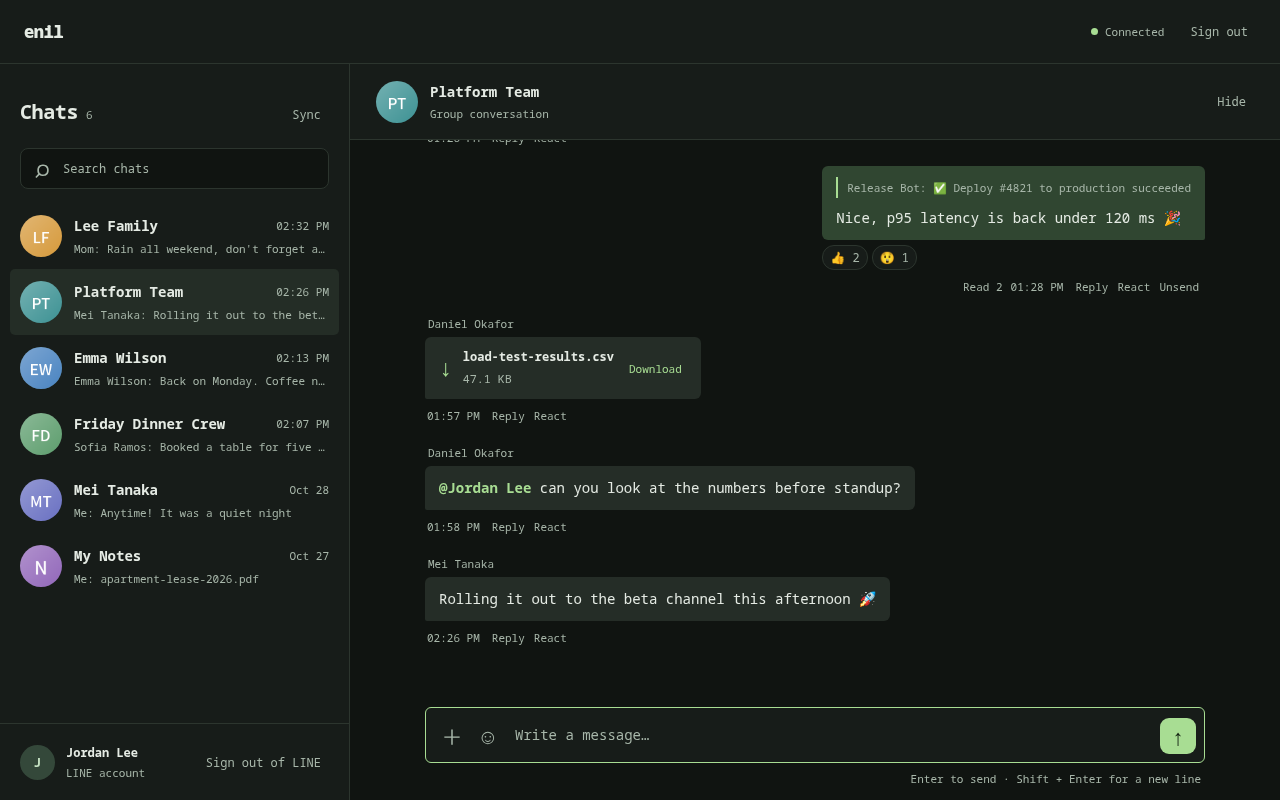
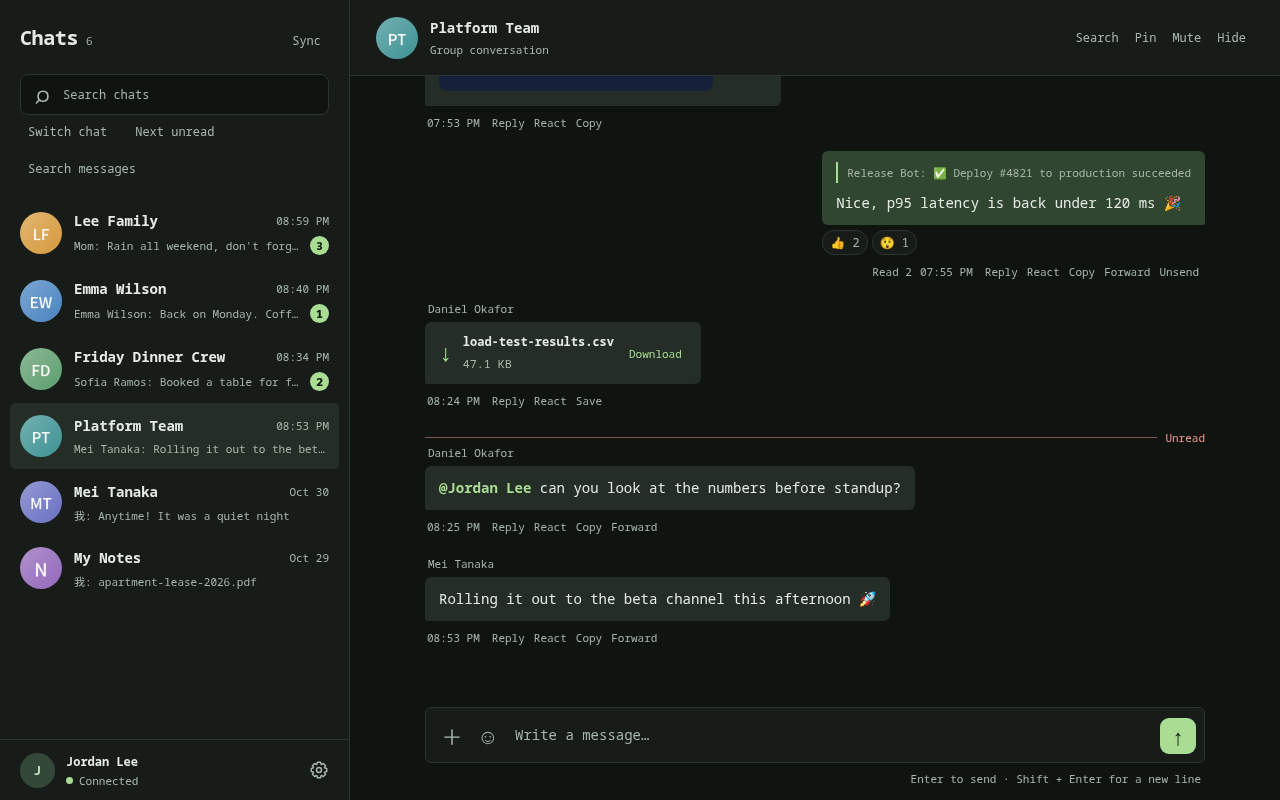
docs(web): describe the bottom-left settings and Account section
Regenerate the web screenshots from the demo fixtures.

diff --git a/docs/web.md b/docs/web.md
@@ -141,7 +141,7 @@ focus is on the chat list or the messages. Opening a chat this way marks it
 read like a click.
 
 The tab title shows the unread total of visible chats, for example
-`(3) enil`, capped at `99+`. The favicon gets a dot while there is unread
+`(3) Line Web`, capped at `99+`. The favicon gets a dot while there is unread
 mail. The title adds "Offline" after the connection drops and "Sign-in
 required" when the web session needs a key.
 
@@ -164,8 +164,13 @@ are sent with Brotli or gzip when the browser accepts it. Media from
 
 ### Settings
 
-**Settings** in the top bar opens a dialog with three options. Each browser
-keeps its own settings in local storage; the server does not store them.
+The page has no top bar. The gear button at the bottom left, next to your
+name and the connection status, opens a dialog with three options. The status
+is a dot and a word, in the warning color while the page is disconnected. On
+a phone the button is at the bottom of the chat list; an open chat shows only
+its own header. On the LINE sign-in screen the button and the status sit in
+the bottom-left corner. Each browser keeps its own settings in local storage;
+the server does not store them.
 
 - **Text size** scales the whole page: 85%, 100%, 115%, 130% or 150%, where
   100% is 14 px.
@@ -218,6 +223,16 @@ dialog stays open:
 A row whose field the daemon does not write is left out. `state.json` has no
 daemon version or commit, so the block does not show one. It has no restart
 or other actions.
+
+### Account
+
+The **Account** section at the bottom of the dialog has two buttons, each
+with a short explanation:
+
+- **Leave web page** signs this browser out. LINE stays signed in.
+- **Sign out of LINE** asks for confirmation, then signs the daemon out of
+  LINE. The panel and every browser need a new QR code sign-in. It shows
+  only while LINE is signed in.
 
 ### Data use
 
